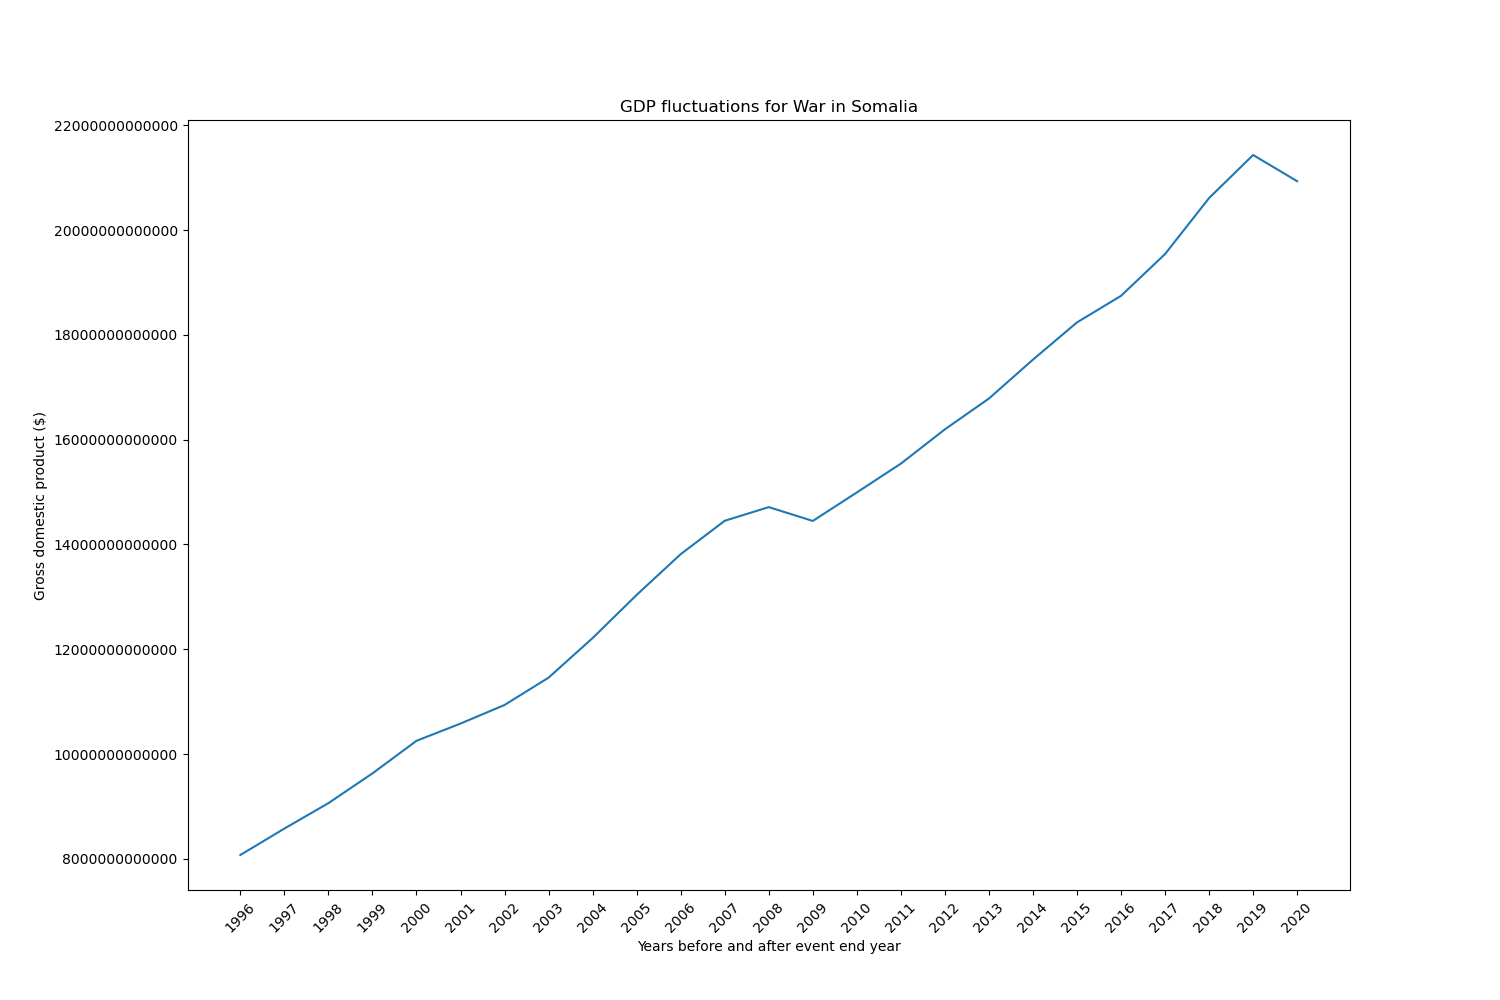
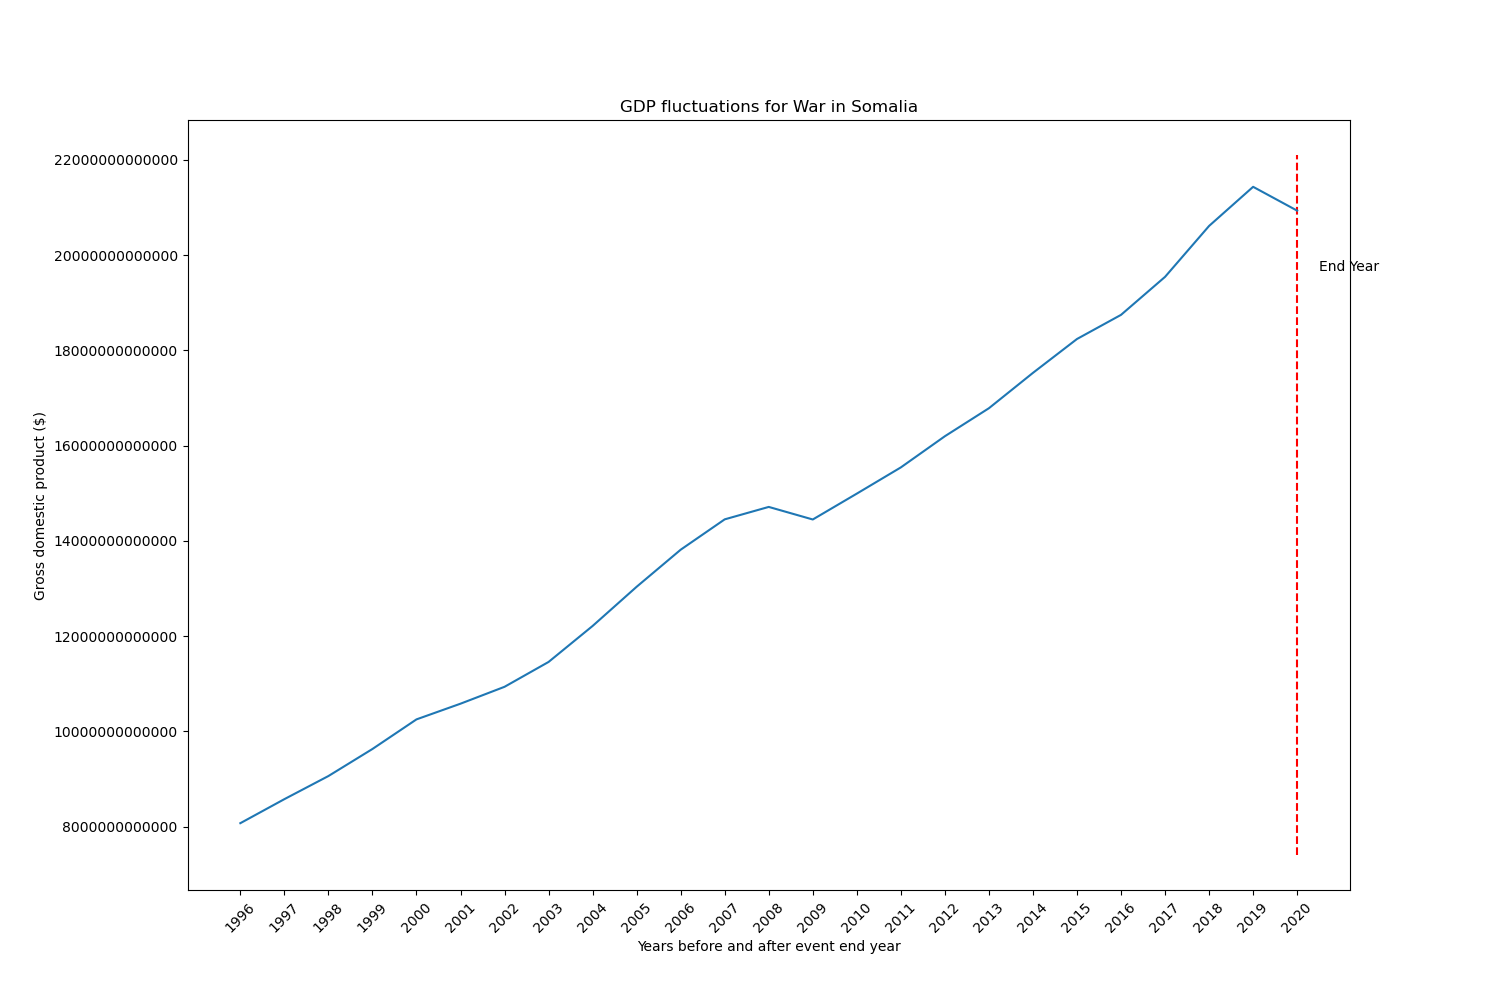
end year indicator in gdp graphing added.

diff --git a/final_project.py b/final_project.py
@@ -489,21 +489,22 @@ def get_gdp_info(us_gdp: pd.DataFrame, df: pd.DataFrame):
             event_gdp = event_gdp.to_frame()
             event_gdp = event_gdp.apply(pd.to_numeric)  # convert all columns of DataFrame
 
+            end_interval = end_year - before_event
             # call plot_gdp for each event
-            plot_gdp(event_gdp, event_name)
+            plot_gdp(event_gdp, event_name,end_interval)
 
 
-def plot_gdp(gdp_df: pd.DataFrame, event_name: str):
+def plot_gdp(gdp_df: pd.DataFrame, event_name: str, end_interval: int):
     """
     Plot gdp trend for given events.
     :param gdp_df: the gdp dataframe for selected events
     :param event_name: event name for plotting
-    :param end_year: end year of an event
+    :param end_interval: end year of an event
     :return: plot of the given dataframe
     >>> us_gdp_df = pd.read_csv('data/gdp_usafacts.csv', header=0)
     >>> event_gdp = us_gdp_df.loc[0, '1947': '1968']
-    >>> event_gdp = event_gdp.to_frame().T
-    >>> plot_gdp(event_gdp, "Asian Flu")
+    >>> event_gdp = event_gdp.to_frame()
+    >>> plot_gdp(event_gdp, "Asian Flu", 4)
     """
 
     fig, ax = plt.subplots(figsize=(15, 10))
@@ -512,8 +513,13 @@ def plot_gdp(gdp_df: pd.DataFrame, event_name: str):
     ax.set_xlabel("Years before and after event end year")
     ax.set_ylabel("Gross domestic product ($)")
     ax.ticklabel_format(style='plain', axis='y')
-    plt.title("GDP fluctuations for " + event_name)
 
+    x_bounds = ax.get_xlim()
+    y_bounds = ax.get_ylim()
+    ax.vlines(end_interval, y_bounds[0], y_bounds[1], colors='red',linestyles='dashed')
+    ax.annotate(text='End Year', xy=(end_interval + 0.5, (y_bounds[0]+y_bounds[1]) *2/ 3))
+
+    plt.title("GDP fluctuations for " + event_name)
     plt.xticks(rotation=45)  # Rotates X-Axis Ticks by 45-degrees
     plt.savefig('Plots/GDP/'+event_name+'.png')
 
